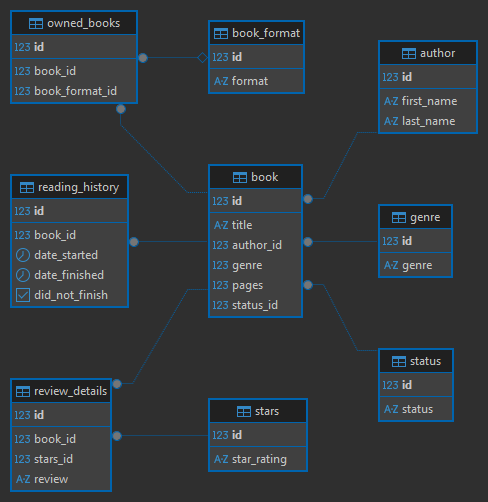
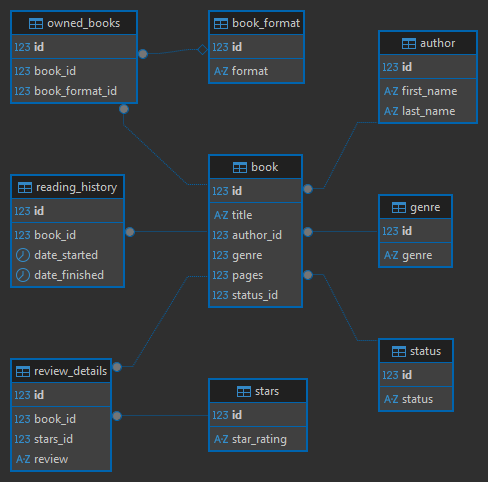
updated diagram for missing status_id in book table

diff --git a/generate-test-data/generate-reading-history.py b/generate-test-data/generate-reading-history.py
@@ -3,7 +3,6 @@ import random
 from datetime import date, timedelta
 
 start = date(2023, 1, 1)
-end = date(2025, 12, 31)
 
 def generate_random_date():
 
@@ -21,17 +20,17 @@ def generate_reading_history():
     reading_history_list = currently_reading + read_books
 
     with open('./files/reading_history.csv', 'w') as f:
-        f.write("book_id,date_started,date_finished,did_not_finish,\n")
+        f.write("book_id,date_started,date_finished,\n")
         for book in reading_history_list:
             reading_start_date = generate_random_date()
             random_read_time = random.randint(3, 24)
             if book in currently_reading:
-                f.write(f"({book}, '{reading_start_date}', NULL, NULL),\n")
+                f.write(f"({book}, '{reading_start_date}', NULL),\n")
             else:
                 read_time = timedelta(days=random_read_time)
                 end_date = reading_start_date + read_time
-                f.write(f"({book}, '{reading_start_date}', '{end_date}', NULL),\n")
-        f.write("(7,'2023-11-19',NULL,TRUE)")
+                f.write(f"({book}, '{reading_start_date}', '{end_date}'),\n")
+        f.write("(7,'2023-11-19',NULL)")
 
 
 generate_reading_history()

diff --git a/generate-test-data/generate-review-details.py b/generate-test-data/generate-review-details.py
@@ -1,0 +1,21 @@
+
+
+import random
+import lipsum
+
+read_books = [1, 2, 3, 5, 6, 9, 10, 11, 12, 13, 14, 15, 16, 17, 18, 25, 28, 31, 35, 37, 38, 41, 42, 43, 44, 45, 47, 50, 51, 52, 53, 55, 56, 57, 58, 59, 60, 61, 62, 64, 65, 66, 68, 69, 70, 71, 72, 73, 74, 75, 77, 78, 79, 80, 81, 82, 83, 84, 86]
+
+def generate_review_details():
+
+    with open ('./files/review_details.csv', 'w') as f:
+        f.write("book_id, stars_id, review,\n")
+        for book in read_books:
+            star_rating = random.randint(1, 5)
+            include_review = random.randint(1, 2)
+            review = lipsum.generate_sentences(4)
+            if include_review == 1:
+                f.write(f"({book}, {star_rating}, \"{review}\"),\n")
+            else:
+                f.write(f"({book}, {star_rating}, NULL),\n")
+
+generate_review_details()
